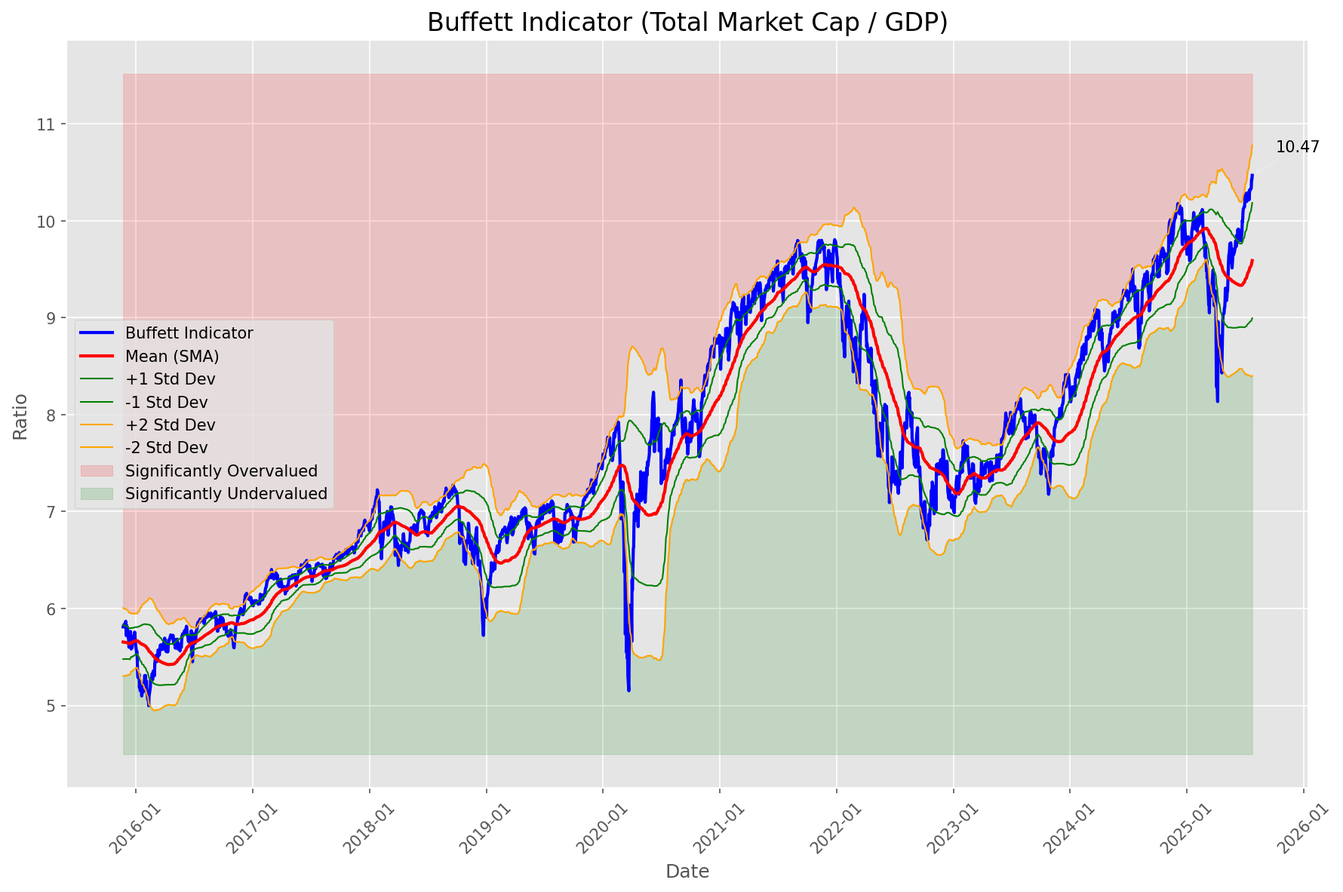
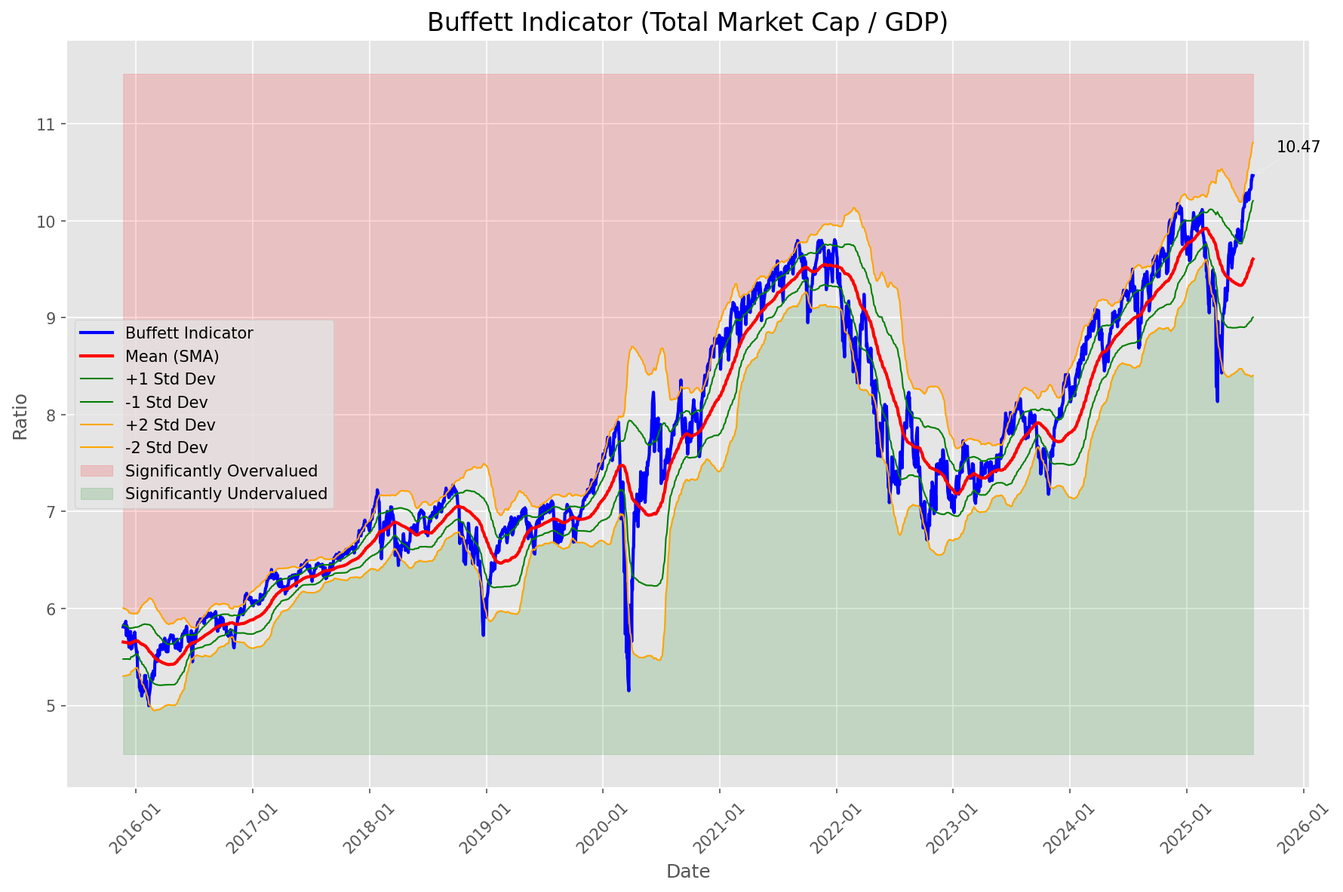
Add market report for 2025-07-29

diff --git a/oneil_relative_strength_report_2025-07-29.md b/oneil_relative_strength_report_2025-07-29.md
@@ -9,11 +9,11 @@
 | Metric | Value |
 |--------|-------|
 | **Market Valuation** | **Overvalued** |
-| **Current Ratio** | 10.47 |
-| **Historical Mean** | 9.59 |
-| **Standard Deviation** | 0.59 |
-| **Z-Score (StdDev from Mean)** | 1.48 |
-| **Total Market Cap** | $313.60 trillion |
+| **Current Ratio** | 10.48 |
+| **Historical Mean** | 9.61 |
+| **Standard Deviation** | 0.60 |
+| **Z-Score (StdDev from Mean)** | 1.43 |
+| **Total Market Cap** | $314.02 trillion |
 | **GDP** | $29.96 trillion |
 
 ## **Market Insights**
@@ -49,41 +49,41 @@ Based on William O'Neil's Relative Strength Methodology
 
 | ETF | Strength | RS Rating | Performance | Above Key MAs | Trend | Sector |
 |-----|----------|-----------|-------------|--------------|-------|--------|
-| [URA](https://www.tradingview.com/chart/?symbol=URA) | 99.0 | 98.0 | 67.65% | 10d ✓, 50d ✓, 200d ✓ | ↗ | Uranium |
+| [URA](https://www.tradingview.com/chart/?symbol=URA) | 98.5 | 97.0 | 64.05% | 10d ✓, 50d ✓, 200d ✓ | ↗ | Uranium |
 | [ARKW](https://www.tradingview.com/chart/?symbol=ARKW) | 98.0 | 96.0 | 53.30% | 10d ✓, 50d ✓, 200d ✓ | ↗ | Next Generation Internet |
-| [ARKF](https://www.tradingview.com/chart/?symbol=ARKF) | 97.5 | 95.0 | 49.71% | 10d ✓, 50d ✓, 200d ✓ | ↗ | Fintech Innovation |
-| [ARKK](https://www.tradingview.com/chart/?symbol=ARKK) | 97.5 | 95.0 | 50.67% | 10d ✓, 50d ✓, 200d ✓ | ↗ | Innovation |
-| [XLK](https://www.tradingview.com/chart/?symbol=XLK) | 91.0 | 82.0 | 26.68% | 10d ✓, 50d ✓, 200d ✓ | ↗ | Technology |
-| [PAVE](https://www.tradingview.com/chart/?symbol=PAVE) | 89.0 | 78.0 | 22.95% | 10d ✓, 50d ✓, 200d ✓ | ↗ | Infrastructure |
-| [AIQ](https://www.tradingview.com/chart/?symbol=AIQ) | 88.5 | 77.0 | 22.19% | 10d ✓, 50d ✓, 200d ✓ | ↗ | Artificial Intelligence & Technology |
+| [XLK](https://www.tradingview.com/chart/?symbol=XLK) | 91.5 | 83.0 | 27.95% | 10d ✓, 50d ✓, 200d ✓ | ↗ | Technology |
+| [PAVE](https://www.tradingview.com/chart/?symbol=PAVE) | 89.0 | 78.0 | 22.96% | 10d ✓, 50d ✓, 200d ✓ | ↗ | Infrastructure |
+| [AIQ](https://www.tradingview.com/chart/?symbol=AIQ) | 88.5 | 77.0 | 22.65% | 10d ✓, 50d ✓, 200d ✓ | ↗ | Artificial Intelligence & Technology |
 | [BLOK](https://www.tradingview.com/chart/?symbol=BLOK) | 88.1 | 96.0 | 56.58% | 10d ✗, 50d ✓, 200d ✓ | ↗ | Blockchain & Cryptocurrency |
-| [XLI](https://www.tradingview.com/chart/?symbol=XLI) | 86.5 | 73.0 | 19.77% | 10d ✓, 50d ✓, 200d ✓ | ↗ | Industrial |
-| [XLY](https://www.tradingview.com/chart/?symbol=XLY) | 81.5 | 63.0 | 14.46% | 10d ✓, 50d ✓, 200d ✓ | ↗ | Consumer Discretionary |
-| [JETS](https://www.tradingview.com/chart/?symbol=JETS) | 81.1 | 82.0 | 26.50% | 10d ✗, 50d ✓, 200d ✓ | ↗ | Airlines |
-| [CIBR](https://www.tradingview.com/chart/?symbol=CIBR) | 80.5 | 61.0 | 13.78% | 10d ✓, 50d ✓, 200d ✓ | ↗ | Cybersecurity |
-| [XLF](https://www.tradingview.com/chart/?symbol=XLF) | 77.0 | 54.0 | 10.52% | 10d ✓, 50d ✓, 200d ✓ | ↗ | Financial |
-| [SOXX](https://www.tradingview.com/chart/?symbol=SOXX) | 74.0 | 88.0 | 32.97% | 10d ✓, 50d ✓, 200d ✓ | ↘ | Semiconductors |
-| [SLV](https://www.tradingview.com/chart/?symbol=SLV) | 72.6 | 65.0 | 15.27% | 10d ✗, 50d ✓, 200d ✓ | ↗ | Silver |
-| [XLU](https://www.tradingview.com/chart/?symbol=XLU) | 72.0 | 44.0 | 6.92% | 10d ✓, 50d ✓, 200d ✓ | ↗ | Utilities |
-| [IYZ](https://www.tradingview.com/chart/?symbol=IYZ) | 71.1 | 62.0 | 14.08% | 10d ✗, 50d ✓, 200d ✓ | ↗ | Telecommunications |
-| [XLC](https://www.tradingview.com/chart/?symbol=XLC) | 70.1 | 60.0 | 13.44% | 10d ✗, 50d ✓, 200d ✓ | ↗ | Communications |
-| [KWEB](https://www.tradingview.com/chart/?symbol=KWEB) | 69.1 | 58.0 | 12.46% | 10d ✗, 50d ✓, 200d ✓ | ↗ | Chinese Internet |
-| [IYT](https://www.tradingview.com/chart/?symbol=IYT) | 66.0 | 72.0 | 18.93% | 10d ✓, 50d ✓, 200d ✓ | ↘ | Transportation |
-| [ICLN](https://www.tradingview.com/chart/?symbol=ICLN) | 64.0 | 68.0 | 16.46% | 10d ✓, 50d ✓, 200d ✓ | ↘ | Clean Energy |
-| [ARKG](https://www.tradingview.com/chart/?symbol=ARKG) | 62.0 | 64.0 | 14.64% | 10d ✓, 50d ✓, 200d ✓ | ↘ | Genomics |
-| [XLB](https://www.tradingview.com/chart/?symbol=XLB) | 56.0 | 52.0 | 10.18% | 10d ✓, 50d ✓, 200d ✓ | ↘ | Materials |
+| [ARKF](https://www.tradingview.com/chart/?symbol=ARKF) | 87.6 | 95.0 | 49.52% | 10d ✗, 50d ✓, 200d ✓ | ↗ | Fintech Innovation |
+| [ARKK](https://www.tradingview.com/chart/?symbol=ARKK) | 87.1 | 94.0 | 48.17% | 10d ✗, 50d ✓, 200d ✓ | ↗ | Innovation |
+| [XLI](https://www.tradingview.com/chart/?symbol=XLI) | 86.0 | 72.0 | 18.59% | 10d ✓, 50d ✓, 200d ✓ | ↗ | Industrial |
+| [CIBR](https://www.tradingview.com/chart/?symbol=CIBR) | 81.5 | 63.0 | 14.34% | 10d ✓, 50d ✓, 200d ✓ | ↗ | Cybersecurity |
+| [XLY](https://www.tradingview.com/chart/?symbol=XLY) | 81.0 | 62.0 | 13.75% | 10d ✓, 50d ✓, 200d ✓ | ↗ | Consumer Discretionary |
+| [JETS](https://www.tradingview.com/chart/?symbol=JETS) | 80.1 | 80.0 | 25.13% | 10d ✗, 50d ✓, 200d ✓ | ↗ | Airlines |
+| [XLF](https://www.tradingview.com/chart/?symbol=XLF) | 77.0 | 54.0 | 10.47% | 10d ✓, 50d ✓, 200d ✓ | ↗ | Financial |
+| [SOXX](https://www.tradingview.com/chart/?symbol=SOXX) | 74.5 | 89.0 | 34.93% | 10d ✓, 50d ✓, 200d ✓ | ↘ | Semiconductors |
+| [XLU](https://www.tradingview.com/chart/?symbol=XLU) | 72.5 | 45.0 | 7.02% | 10d ✓, 50d ✓, 200d ✓ | ↗ | Utilities |
+| [SLV](https://www.tradingview.com/chart/?symbol=SLV) | 72.1 | 64.0 | 14.59% | 10d ✗, 50d ✓, 200d ✓ | ↗ | Silver |
+| [IYZ](https://www.tradingview.com/chart/?symbol=IYZ) | 71.6 | 63.0 | 14.08% | 10d ✗, 50d ✓, 200d ✓ | ↗ | Telecommunications |
+| [XLC](https://www.tradingview.com/chart/?symbol=XLC) | 69.6 | 59.0 | 12.75% | 10d ✗, 50d ✓, 200d ✓ | ↗ | Communications |
+| [KWEB](https://www.tradingview.com/chart/?symbol=KWEB) | 69.6 | 59.0 | 12.80% | 10d ✗, 50d ✓, 200d ✓ | ↗ | Chinese Internet |
 | [IBB](https://www.tradingview.com/chart/?symbol=IBB) | 54.5 | 49.0 | 8.84% | 10d ✓, 50d ✓, 200d ✓ | ↘ | Biotechnology |
-| [XLE](https://www.tradingview.com/chart/?symbol=XLE) | 52.0 | 44.0 | 6.92% | 10d ✓, 50d ✓, 200d ✓ | ↘ | Energy |
+| [IYT](https://www.tradingview.com/chart/?symbol=IYT) | 54.1 | 68.0 | 16.36% | 10d ✗, 50d ✓, 200d ✓ | ↘ | Transportation |
+| [ICLN](https://www.tradingview.com/chart/?symbol=ICLN) | 52.6 | 65.0 | 15.07% | 10d ✗, 50d ✓, 200d ✓ | ↘ | Clean Energy |
+| [XLE](https://www.tradingview.com/chart/?symbol=XLE) | 52.0 | 44.0 | 6.53% | 10d ✓, 50d ✓, 200d ✓ | ↘ | Energy |
+| [ARKG](https://www.tradingview.com/chart/?symbol=ARKG) | 49.6 | 59.0 | 12.75% | 10d ✗, 50d ✓, 200d ✓ | ↘ | Genomics |
 | [DBC](https://www.tradingview.com/chart/?symbol=DBC) | 49.5 | 39.0 | 4.92% | 10d ✓, 50d ✓, 200d ✓ | ↘ | Commodities |
-| [ITB](https://www.tradingview.com/chart/?symbol=ITB) | 46.3 | 53.0 | 10.31% | 10d ✓, 50d ✓, 200d ✗ | ↘ | Home Construction |
-| [GLD](https://www.tradingview.com/chart/?symbol=GLD) | 42.7 | 25.0 | 0.22% | 10d ✗, 50d ✗, 200d ✓ | ↗ | Gold |
-| [BIL](https://www.tradingview.com/chart/?symbol=BIL) | 42.0 | 24.0 | 0.02% | 10d ✓, 50d ✓, 200d ✓ | ↘ | Short-term Treasuries |
-| [IYR](https://www.tradingview.com/chart/?symbol=IYR) | 38.6 | 37.0 | 4.26% | 10d ✗, 50d ✓, 200d ✓ | ↘ | Real Estate |
+| [IYR](https://www.tradingview.com/chart/?symbol=IYR) | 49.0 | 38.0 | 4.44% | 10d ✓, 50d ✓, 200d ✓ | ↘ | Real Estate |
+| [ITB](https://www.tradingview.com/chart/?symbol=ITB) | 46.3 | 53.0 | 10.06% | 10d ✓, 50d ✓, 200d ✗ | ↘ | Home Construction |
+| [XLB](https://www.tradingview.com/chart/?symbol=XLB) | 45.6 | 51.0 | 9.56% | 10d ✗, 50d ✓, 200d ✓ | ↘ | Materials |
+| [BIL](https://www.tradingview.com/chart/?symbol=BIL) | 42.5 | 25.0 | 0.02% | 10d ✓, 50d ✓, 200d ✓ | ↘ | Short-term Treasuries |
+| [GLD](https://www.tradingview.com/chart/?symbol=GLD) | 40.2 | 20.0 | -1.12% | 10d ✗, 50d ✗, 200d ✓ | ↗ | Gold |
 | [DBA](https://www.tradingview.com/chart/?symbol=DBA) | 38.4 | 17.0 | -2.74% | 10d ✓, 50d ✗, 200d ✗ | ↗ | Agriculture |
-| [UUP](https://www.tradingview.com/chart/?symbol=UUP) | 32.8 | 26.0 | 0.40% | 10d ✓, 50d ✓, 200d ✗ | ↘ | U.S. Dollar |
-| [XLV](https://www.tradingview.com/chart/?symbol=XLV) | 28.8 | 18.0 | -2.00% | 10d ✓, 50d ✓, 200d ✗ | ↘ | Healthcare |
-| [TLT](https://www.tradingview.com/chart/?symbol=TLT) | 17.9 | 16.0 | -3.40% | 10d ✓, 50d ✗, 200d ✗ | ↘ | Long-term Treasuries |
-| [XLP](https://www.tradingview.com/chart/?symbol=XLP) | 11.5 | 23.0 | -0.22% | 10d ✗, 50d ✗, 200d ✗ | ↘ | Consumer Staples |
+| [UUP](https://www.tradingview.com/chart/?symbol=UUP) | 35.3 | 31.0 | 1.45% | 10d ✓, 50d ✓, 200d ✗ | ↘ | U.S. Dollar |
+| [XLV](https://www.tradingview.com/chart/?symbol=XLV) | 28.3 | 17.0 | -2.80% | 10d ✓, 50d ✓, 200d ✗ | ↘ | Healthcare |
+| [TLT](https://www.tradingview.com/chart/?symbol=TLT) | 27.8 | 16.0 | -3.16% | 10d ✓, 50d ✓, 200d ✗ | ↘ | Long-term Treasuries |
+| [XLP](https://www.tradingview.com/chart/?symbol=XLP) | 23.2 | 26.0 | 0.32% | 10d ✗, 50d ✗, 200d ✓ | ↘ | Consumer Staples |
 
 ### **Sector ETF Performance Interpretation**
 
@@ -98,159 +98,178 @@ This table shows the relative strength metrics for different market sectors base
 
 ### **Current Sector Leadership**
 
-The current market leadership is coming from the following sectors: **Uranium, Next Generation Internet, Fintech Innovation**.
+The current market leadership is coming from the following sectors: **Uranium, Next Generation Internet, Technology**.
 
-The **Uranium** sector (represented by **URA**) is showing particularly strong relative strength with an RS rating of 98.0 and performance of 67.65% vs. the S&P 500. This sector is trading above its 10-day, 50-day, 200-day moving average(s). Investors should consider focusing on high RS stocks within these leading sectors for potential outperformance.
+The **Uranium** sector (represented by **URA**) is showing particularly strong relative strength with an RS rating of 97.0 and performance of 64.05% vs. the S&P 500. This sector is trading above its 10-day, 50-day, 200-day moving average(s). Investors should consider focusing on high RS stocks within these leading sectors for potential outperformance.
 
 ---
 
 ## **Buy Recommendations**
 
-The following 50 stocks show exceptional relative strength:
+The following 48 stocks show exceptional relative strength:
 
 | RS Rating | Buy Score | Current Price | Chart | Name | Ticker |
 |-----------|-----------|---------------|-------|------|--------|
-| 100 | 100 | $64.11 | [Chart](https://www.tradingview.com/chart/?symbol=MP) | MP Materials Corp. | MP |
-| 100 | 100 | $239.40 | [Chart](https://www.tradingview.com/chart/?symbol=LEU) | Centrus Energy Corp. | LEU |
-| 100 | 100 | $106.77 | [Chart](https://www.tradingview.com/chart/?symbol=HOOD) | Robinhood Markets, Inc. Class A Common Stock | HOOD |
-| 100 | 100 | $146.49 | [Chart](https://www.tradingview.com/chart/?symbol=SEZL) | Sezzle Inc. Common Stock | SEZL |
-| 100 | 100 | $45.95 | [Chart](https://www.tradingview.com/chart/?symbol=TTMI) | TTM Technologies Inc | TTMI |
-| 99 | 100 | $58.68 | [Chart](https://www.tradingview.com/chart/?symbol=HIMS) | Hims & Hers Health, Inc. | HIMS |
-| 99 | 100 | $120.96 | [Chart](https://www.tradingview.com/chart/?symbol=RBLX) | Roblox Corporation | RBLX |
-| 99 | 100 | $173.37 | [Chart](https://www.tradingview.com/chart/?symbol=CLS) | Celestica, Inc. | CLS |
-| 99 | 100 | $76.17 | [Chart](https://www.tradingview.com/chart/?symbol=LIF) | Life360, Inc. Common Stock | LIF |
-| 99 | 100 | $162.67 | [Chart](https://www.tradingview.com/chart/?symbol=FUTU) | Futu Holdings Limited American Depositary Shares | FUTU |
+| 100 | 100 | $105.97 | [Chart](https://www.tradingview.com/chart/?symbol=HOOD) | Robinhood Markets, Inc. Class A Common Stock | HOOD |
+| 100 | 100 | $234.36 | [Chart](https://www.tradingview.com/chart/?symbol=LEU) | Centrus Energy Corp. | LEU |
+| 100 | 100 | $205.12 | [Chart](https://www.tradingview.com/chart/?symbol=CLS) | Celestica, Inc. | CLS |
+| 100 | 100 | $49.63 | [Chart](https://www.tradingview.com/chart/?symbol=TTMI) | TTM Technologies Inc | TTMI |
+| 100 | 100 | $62.19 | [Chart](https://www.tradingview.com/chart/?symbol=MP) | MP Materials Corp. | MP |
+| 100 | 100 | $145.14 | [Chart](https://www.tradingview.com/chart/?symbol=SEZL) | Sezzle Inc. Common Stock | SEZL |
+| 100 | 100 | $226.99 | [Chart](https://www.tradingview.com/chart/?symbol=DAVE) | Dave Inc. Class A Common Stock | DAVE |
 | 99 | 100 | $25.46 | [Chart](https://www.tradingview.com/chart/?symbol=CPS) | Cooper-Standard Automotive Inc. | CPS |
-| 98 | 100 | $358.77 | [Chart](https://www.tradingview.com/chart/?symbol=TLN) | Talen Energy Corporation Common Stock | TLN |
-| 98 | 100 | $647.66 | [Chart](https://www.tradingview.com/chart/?symbol=GEV) | GE Vernova Inc. | GEV |
-| 98 | 100 | $59.36 | [Chart](https://www.tradingview.com/chart/?symbol=KTOS) | Kratos Defense & Security Solutions, Inc. | KTOS |
-| 97 | 100 | $199.41 | [Chart](https://www.tradingview.com/chart/?symbol=NET) | Cloudflare, Inc. Class A common stock, par value $0.001 per share | NET |
-| 97 | 100 | $105.09 | [Chart](https://www.tradingview.com/chart/?symbol=VRNA) | Verona Pharma plc | VRNA |
-| 97 | 100 | $38.60 | [Chart](https://www.tradingview.com/chart/?symbol=AS) | Amer Sports, Inc. | AS |
-| 97 | 100 | $37.88 | [Chart](https://www.tradingview.com/chart/?symbol=NNE) | Nano Nuclear Energy Inc. Common Stock | NNE |
-| 96 | 100 | $236.89 | [Chart](https://www.tradingview.com/chart/?symbol=AGX) | Argan, Inc | AGX |
-| 96 | 100 | $65.39 | [Chart](https://www.tradingview.com/chart/?symbol=IBKR) | Interactive Brokers Group, Inc. Class A Common Stock | IBKR |
+| 99 | 100 | $76.17 | [Chart](https://www.tradingview.com/chart/?symbol=LIF) | Life360, Inc. Common Stock | LIF |
+| 99 | 100 | $57.48 | [Chart](https://www.tradingview.com/chart/?symbol=HIMS) | Hims & Hers Health, Inc. | HIMS |
+| 98 | 100 | $58.60 | [Chart](https://www.tradingview.com/chart/?symbol=KTOS) | Kratos Defense & Security Solutions, Inc. | KTOS |
+| 98 | 100 | $643.35 | [Chart](https://www.tradingview.com/chart/?symbol=GEV) | GE Vernova Inc. | GEV |
+| 98 | 100 | $360.02 | [Chart](https://www.tradingview.com/chart/?symbol=TLN) | Talen Energy Corporation Common Stock | TLN |
+| 97 | 100 | $243.00 | [Chart](https://www.tradingview.com/chart/?symbol=AGX) | Argan, Inc | AGX |
+| 97 | 100 | $202.10 | [Chart](https://www.tradingview.com/chart/?symbol=NET) | Cloudflare, Inc. Class A common stock, par value $0.001 per share | NET |
+| 96 | 100 | $231.95 | [Chart](https://www.tradingview.com/chart/?symbol=JBL) | Jabil Inc. | JBL |
 | 96 | 100 | $158.24 | [Chart](https://www.tradingview.com/chart/?symbol=ARKW) | ARK Next Generation Internet ETF | ARKW |
-| 95 | 100 | $224.79 | [Chart](https://www.tradingview.com/chart/?symbol=JBL) | Jabil Inc. | JBL |
-| 95 | 100 | $77.72 | [Chart](https://www.tradingview.com/chart/?symbol=URBN) | Urban Outfitters Inc | URBN |
-| 95 | 100 | $54.03 | [Chart](https://www.tradingview.com/chart/?symbol=ARKF) | ARK Fintech Innovation ETF | ARKF |
-| 93 | 100 | $22.30 | [Chart](https://www.tradingview.com/chart/?symbol=MIR) | Mirion Technologies, Inc. | MIR |
-| 93 | 100 | $58.78 | [Chart](https://www.tradingview.com/chart/?symbol=VIK) | Viking Holdings Ltd | VIK |
-| 92 | 100 | $258.50 | [Chart](https://www.tradingview.com/chart/?symbol=WWD) | Woodward, Inc. | WWD |
-| 92 | 100 | $19.82 | [Chart](https://www.tradingview.com/chart/?symbol=LQDA) | Liquidia Corporation Common Stock | LQDA |
-| 92 | 100 | $106.70 | [Chart](https://www.tradingview.com/chart/?symbol=APH) | Amphenol Corporation | APH |
-| 91 | 100 | $157.88 | [Chart](https://www.tradingview.com/chart/?symbol=PLTR) | Palantir Technologies Inc. Class A Common Stock | PLTR |
-| 91 | 100 | $95.55 | [Chart](https://www.tradingview.com/chart/?symbol=C) | Citigroup Inc. | C |
-| 91 | 100 | $188.17 | [Chart](https://www.tradingview.com/chart/?symbol=HWM) | Howmet Aerospace Inc. | HWM |
-| 90 | 100 | $270.61 | [Chart](https://www.tradingview.com/chart/?symbol=GE) | GE Aerospace | GE |
-| 90 | 100 | $111.52 | [Chart](https://www.tradingview.com/chart/?symbol=JCI) | Johnson Controls International plc | JCI |
-| 89 | 100 | $158.32 | [Chart](https://www.tradingview.com/chart/?symbol=COOP) | Mr. Cooper Group Inc. Common Stock | COOP |
-| 89 | 100 | $62.70 | [Chart](https://www.tradingview.com/chart/?symbol=RYAAY) | Ryanair Holdings plc American Depositary Shares | RYAAY |
-| 89 | 100 | $48.93 | [Chart](https://www.tradingview.com/chart/?symbol=TOST) | Toast, Inc. | TOST |
-| 86 | 98 | $65.89 | [Chart](https://www.tradingview.com/chart/?symbol=CAKE) | Cheesecake Factory (The) | CAKE |
-| 87 | 97 | $236.41 | [Chart](https://www.tradingview.com/chart/?symbol=BA) | Boeing Company | BA |
-| 84 | 96 | $48.08 | [Chart](https://www.tradingview.com/chart/?symbol=DRS) | Leonardo DRS, Inc. Common Stock | DRS |
-| 85 | 95 | $49.45 | [Chart](https://www.tradingview.com/chart/?symbol=INOD) | Innodata Inc. | INOD |
-| 84 | 95 | $292.59 | [Chart](https://www.tradingview.com/chart/?symbol=VEEV) | Veeva Systems Inc. | VEEV |
-| 83 | 95 | $100.63 | [Chart](https://www.tradingview.com/chart/?symbol=BK) | Bank of New York Mellon Corporation | BK |
-| 82 | 95 | $32.56 | [Chart](https://www.tradingview.com/chart/?symbol=DB) | Deutsche Bank Aktiengesellschaft | DB |
-| 83 | 94 | $198.05 | [Chart](https://www.tradingview.com/chart/?symbol=ITA) | iShares U.S. Aerospace & Defense ETF | ITA |
-| 82 | 93 | $147.19 | [Chart](https://www.tradingview.com/chart/?symbol=PPA) | Invesco Aerospace & Defense ETF | PPA |
-| 81 | 91 | $95.14 | [Chart](https://www.tradingview.com/chart/?symbol=NDAQ) | Nasdaq, Inc. Common Stock | NDAQ |
-| 80 | 91 | $156.07 | [Chart](https://www.tradingview.com/chart/?symbol=RTX) | RTX Corporation | RTX |
+| 96 | 100 | $65.88 | [Chart](https://www.tradingview.com/chart/?symbol=IBKR) | Interactive Brokers Group, Inc. Class A Common Stock | IBKR |
+| 96 | 100 | $37.73 | [Chart](https://www.tradingview.com/chart/?symbol=NNE) | Nano Nuclear Energy Inc. Common Stock | NNE |
+| 95 | 100 | $105.27 | [Chart](https://www.tradingview.com/chart/?symbol=VRNA) | Verona Pharma plc | VRNA |
+| 94 | 100 | $77.48 | [Chart](https://www.tradingview.com/chart/?symbol=URBN) | Urban Outfitters Inc | URBN |
+| 93 | 100 | $260.58 | [Chart](https://www.tradingview.com/chart/?symbol=WWD) | Woodward, Inc. | WWD |
+| 93 | 100 | $22.47 | [Chart](https://www.tradingview.com/chart/?symbol=MIR) | Mirion Technologies, Inc. | MIR |
+| 92 | 100 | $114.14 | [Chart](https://www.tradingview.com/chart/?symbol=SANM) | Sanmina  Corp | SANM |
+| 92 | 100 | $163.82 | [Chart](https://www.tradingview.com/chart/?symbol=COOP) | Mr. Cooper Group Inc. Common Stock | COOP |
+| 91 | 100 | $34.76 | [Chart](https://www.tradingview.com/chart/?symbol=APG) | APi Group Corporation | APG |
+| 91 | 100 | $189.84 | [Chart](https://www.tradingview.com/chart/?symbol=HWM) | Howmet Aerospace Inc. | HWM |
+| 91 | 100 | $95.81 | [Chart](https://www.tradingview.com/chart/?symbol=C) | Citigroup Inc. | C |
+| 91 | 100 | $106.15 | [Chart](https://www.tradingview.com/chart/?symbol=APH) | Amphenol Corporation | APH |
+| 91 | 100 | $19.83 | [Chart](https://www.tradingview.com/chart/?symbol=LQDA) | Liquidia Corporation Common Stock | LQDA |
+| 91 | 100 | $57.96 | [Chart](https://www.tradingview.com/chart/?symbol=VIK) | Viking Holdings Ltd | VIK |
+| 90 | 100 | $157.78 | [Chart](https://www.tradingview.com/chart/?symbol=PLTR) | Palantir Technologies Inc. Class A Common Stock | PLTR |
+| 89 | 100 | $48.68 | [Chart](https://www.tradingview.com/chart/?symbol=TOST) | Toast, Inc. | TOST |
+| 89 | 100 | $271.89 | [Chart](https://www.tradingview.com/chart/?symbol=GE) | GE Aerospace | GE |
+| 86 | 99 | $91.05 | [Chart](https://www.tradingview.com/chart/?symbol=RBRK) | Rubrik, Inc. | RBRK |
+| 86 | 98 | $48.27 | [Chart](https://www.tradingview.com/chart/?symbol=DRS) | Leonardo DRS, Inc. Common Stock | DRS |
+| 84 | 97 | $33.09 | [Chart](https://www.tradingview.com/chart/?symbol=DB) | Deutsche Bank Aktiengesellschaft | DB |
+| 85 | 96 | $46.62 | [Chart](https://www.tradingview.com/chart/?symbol=BBIO) | BridgeBio Pharma, Inc. Common Stock | BBIO |
+| 84 | 96 | $101.94 | [Chart](https://www.tradingview.com/chart/?symbol=BK) | Bank of New York Mellon Corporation | BK |
+| 84 | 95 | $291.31 | [Chart](https://www.tradingview.com/chart/?symbol=VEEV) | Veeva Systems Inc. | VEEV |
+| 83 | 94 | $147.19 | [Chart](https://www.tradingview.com/chart/?symbol=PPA) | Invesco Aerospace & Defense ETF | PPA |
+| 82 | 94 | $64.76 | [Chart](https://www.tradingview.com/chart/?symbol=CAKE) | Cheesecake Factory (The) | CAKE |
+| 83 | 93 | $48.84 | [Chart](https://www.tradingview.com/chart/?symbol=INOD) | Innodata Inc. | INOD |
+| 83 | 93 | $177.26 | [Chart](https://www.tradingview.com/chart/?symbol=AWI) | Armstrong World Industries, Inc. | AWI |
+| 82 | 93 | $197.84 | [Chart](https://www.tradingview.com/chart/?symbol=ITA) | iShares U.S. Aerospace & Defense ETF | ITA |
+| 82 | 92 | $95.53 | [Chart](https://www.tradingview.com/chart/?symbol=NDAQ) | Nasdaq, Inc. Common Stock | NDAQ |
+| 80 | 91 | $40.63 | [Chart](https://www.tradingview.com/chart/?symbol=ZLAB) | Zai Lab Limited American Depositary Shares | ZLAB |
 | 80 | 90 | $65.61 | [Chart](https://www.tradingview.com/chart/?symbol=CNM) | Core & Main, Inc. | CNM |
-| 80 | 90 | $49.51 | [Chart](https://www.tradingview.com/chart/?symbol=AU) | AngloGold Ashanti plc | AU |
 
 ---
 
 
 ## **Sell Recommendations**
 
-The following 81 stocks show deteriorating relative strength:
+The following 102 stocks show deteriorating relative strength:
 
 | RS Rating | Sell Score | Current Price | Chart | Name | Ticker |
 |-----------|------------|---------------|-------|------|--------|
-| 1 | 100 | $12.17 | [Chart](https://www.tradingview.com/chart/?symbol=NVDS) | Investment Managers Series Trust II Tradr 1.5X Short NVDA Daily ETF | NVDS |
-| 1 | 100 | $23.75 | [Chart](https://www.tradingview.com/chart/?symbol=TECS) | Direxion Daily Technology Bear 3x Shares | TECS |
+| 1 | 100 | $23.14 | [Chart](https://www.tradingview.com/chart/?symbol=TECS) | Direxion Daily Technology Bear 3x Shares | TECS |
+| 1 | 100 | $23.89 | [Chart](https://www.tradingview.com/chart/?symbol=QID) | ProShares UltraShort QQQ | QID |
+| 1 | 100 | $11.98 | [Chart](https://www.tradingview.com/chart/?symbol=NVDS) | Investment Managers Series Trust II Tradr 1.5X Short NVDA Daily ETF | NVDS |
+| 1 | 100 | $22.96 | [Chart](https://www.tradingview.com/chart/?symbol=CRTO) | Criteo S.A. | CRTO |
 | 2 | 100 | $14.37 | [Chart](https://www.tradingview.com/chart/?symbol=CLBT) | Cellebrite DI Ltd. Class A Ordinary Shares | CLBT |
-| 2 | 100 | $54.30 | [Chart](https://www.tradingview.com/chart/?symbol=GMED) | GLOBUS MEDICAL INC | GMED |
-| 2 | 100 | $39.65 | [Chart](https://www.tradingview.com/chart/?symbol=SDOW) | ProShares UltraPro Short Dow 30 | SDOW |
+| 2 | 100 | $39.69 | [Chart](https://www.tradingview.com/chart/?symbol=SDOW) | ProShares UltraPro Short Dow 30 | SDOW |
+| 2 | 100 | $13.60 | [Chart](https://www.tradingview.com/chart/?symbol=SG) | Sweetgreen, Inc. | SG |
 | 2 | 100 | $72.41 | [Chart](https://www.tradingview.com/chart/?symbol=LNTH) | Lantheus Holdings, Inc | LNTH |
+| 2 | 100 | $54.30 | [Chart](https://www.tradingview.com/chart/?symbol=GMED) | GLOBUS MEDICAL INC | GMED |
 | 2 | 100 | $65.03 | [Chart](https://www.tradingview.com/chart/?symbol=SKY) | Champion Homes, Inc. | SKY |
 | 3 | 100 | $18.27 | [Chart](https://www.tradingview.com/chart/?symbol=GPCR) | Structure Therapeutics Inc. American Depositary Shares | GPCR |
-| 4 | 100 | $16.41 | [Chart](https://www.tradingview.com/chart/?symbol=BTAL) | AGF U.S. Market Neutral Anti-Beta Fund | BTAL |
-| 4 | 100 | $15.21 | [Chart](https://www.tradingview.com/chart/?symbol=PLSE) | Pulse Biosciences, Inc Common Stock (DE) | PLSE |
+| 4 | 100 | $23.78 | [Chart](https://www.tradingview.com/chart/?symbol=DUST) | Direxion Daily Gold Miners Index Bear 2X Shares | DUST |
+| 4 | 100 | $16.34 | [Chart](https://www.tradingview.com/chart/?symbol=BTAL) | AGF U.S. Market Neutral Anti-Beta Fund | BTAL |
 | 4 | 100 | $48.50 | [Chart](https://www.tradingview.com/chart/?symbol=SLVM) | Sylvamo Corporation | SLVM |
+| 4 | 100 | $15.21 | [Chart](https://www.tradingview.com/chart/?symbol=PLSE) | Pulse Biosciences, Inc Common Stock (DE) | PLSE |
+| 6 | 100 | $10.04 | [Chart](https://www.tradingview.com/chart/?symbol=SPDN) | Direxion Daily S&P 500 Bear 1X Shares | SPDN |
+| 6 | 100 | $38.66 | [Chart](https://www.tradingview.com/chart/?symbol=SH) | ProShares Short S&P500 | SH |
 | 6 | 100 | $10.18 | [Chart](https://www.tradingview.com/chart/?symbol=IMXI) | International Money Express, Inc. | IMXI |
-| 6 | 100 | $38.71 | [Chart](https://www.tradingview.com/chart/?symbol=SH) | ProShares Short S&P500 | SH |
-| 6 | 100 | $53.45 | [Chart](https://www.tradingview.com/chart/?symbol=TSN) | Tyson Foods, Inc. | TSN |
-| 7 | 100 | $36.19 | [Chart](https://www.tradingview.com/chart/?symbol=TMF) | Direxion Daily 20+ Year Treasury Bull 3X Shares (based on the NYSE 20 Year Plus Treasury Bond Index; symbol AXTWEN) | TMF |
-| 10 | 100 | $14.23 | [Chart](https://www.tradingview.com/chart/?symbol=DXC) | DXC Technology Company | DXC |
+| 7 | 100 | $53.74 | [Chart](https://www.tradingview.com/chart/?symbol=TSN) | Tyson Foods, Inc. | TSN |
 | 10 | 100 | $69.95 | [Chart](https://www.tradingview.com/chart/?symbol=NHI) | National Health Investors | NHI |
-| 11 | 100 | $15.19 | [Chart](https://www.tradingview.com/chart/?symbol=FIHL) | Fidelis Insurance Holdings Limited | FIHL |
-| 11 | 100 | $63.48 | [Chart](https://www.tradingview.com/chart/?symbol=ZROZ) | PIMCO 25+ Year Zero Coupon U.S. Treasury Index Exchange-Traded Fund | ZROZ |
-| 12 | 100 | $16.46 | [Chart](https://www.tradingview.com/chart/?symbol=UMH) | UMH Properties, Inc. | UMH |
+| 10 | 100 | $14.23 | [Chart](https://www.tradingview.com/chart/?symbol=DXC) | DXC Technology Company | DXC |
+| 12 | 100 | $13.96 | [Chart](https://www.tradingview.com/chart/?symbol=OCSL) | Oaktree Specialty Lending Corporation | OCSL |
 | 12 | 100 | $127.50 | [Chart](https://www.tradingview.com/chart/?symbol=ICUI) | ICU Medical Inc | ICUI |
+| 12 | 100 | $15.19 | [Chart](https://www.tradingview.com/chart/?symbol=FIHL) | Fidelis Insurance Holdings Limited | FIHL |
+| 12 | 100 | $63.48 | [Chart](https://www.tradingview.com/chart/?symbol=ZROZ) | PIMCO 25+ Year Zero Coupon U.S. Treasury Index Exchange-Traded Fund | ZROZ |
+| 12 | 100 | $16.46 | [Chart](https://www.tradingview.com/chart/?symbol=UMH) | UMH Properties, Inc. | UMH |
+| 1 | 99 | $10.49 | [Chart](https://www.tradingview.com/chart/?symbol=TZA) | Direxion Daily Small Cap Bear 3x Shares | TZA |
 | 5 | 99 | $21.15 | [Chart](https://www.tradingview.com/chart/?symbol=ERY) | Direxion Daily Energy Bear 2X Shares | ERY |
 | 13 | 99 | $64.06 | [Chart](https://www.tradingview.com/chart/?symbol=EDV) | Vanguard World Funds Extended Duration ETF | EDV |
+| 3 | 98 | $10.86 | [Chart](https://www.tradingview.com/chart/?symbol=CERT) | Certara, Inc. Common Stock | CERT |
+| 6 | 98 | $44.73 | [Chart](https://www.tradingview.com/chart/?symbol=CMG) | Chipotle Mexican Grill, Inc. | CMG |
+| 10 | 98 | $103.16 | [Chart](https://www.tradingview.com/chart/?symbol=DEO) | Diageo plc | DEO |
 | 12 | 98 | $10.42 | [Chart](https://www.tradingview.com/chart/?symbol=ACIC) | American Coastal Insurance Corporation Common Stock | ACIC |
-| 6 | 97 | $44.86 | [Chart](https://www.tradingview.com/chart/?symbol=CMG) | Chipotle Mexican Grill, Inc. | CMG |
 | 11 | 97 | $29.00 | [Chart](https://www.tradingview.com/chart/?symbol=OMCL) | Omnicell Inc | OMCL |
 | 15 | 97 | $50.95 | [Chart](https://www.tradingview.com/chart/?symbol=ASH) | Ashland Inc. | ASH |
 | 9 | 96 | $72.18 | [Chart](https://www.tradingview.com/chart/?symbol=AWR) | American States Water Company | AWR |
-| 11 | 96 | $331.35 | [Chart](https://www.tradingview.com/chart/?symbol=EG) | Everest Group, Ltd. | EG |
+| 12 | 96 | $28.75 | [Chart](https://www.tradingview.com/chart/?symbol=BAX) | Baxter International Inc. | BAX |
+| 12 | 96 | $39.72 | [Chart](https://www.tradingview.com/chart/?symbol=BWIN) | The Baldwin Insurance Group, Inc. Class A Common Stock | BWIN |
+| 13 | 96 | $76.07 | [Chart](https://www.tradingview.com/chart/?symbol=BG) | Bunge Global SA | BG |
+| 11 | 95 | $59.20 | [Chart](https://www.tradingview.com/chart/?symbol=UL) | Unilever plc | UL |
+| 12 | 95 | $331.35 | [Chart](https://www.tradingview.com/chart/?symbol=EG) | Everest Group, Ltd. | EG |
 | 11 | 94 | $55.59 | [Chart](https://www.tradingview.com/chart/?symbol=HRB) | H&R Block, Inc. | HRB |
 | 13 | 94 | $15.78 | [Chart](https://www.tradingview.com/chart/?symbol=BBN) | BlackRock Taxable Municipal Bond Trust | BBN |
+| 14 | 94 | $35.44 | [Chart](https://www.tradingview.com/chart/?symbol=AMH) | AMERICAN HOMES 4 RENT | AMH |
 | 14 | 94 | $75.26 | [Chart](https://www.tradingview.com/chart/?symbol=CBT) | Cabot Corporation | CBT |
+| 16 | 94 | $14.28 | [Chart](https://www.tradingview.com/chart/?symbol=ACVA) | ACV Auctions Inc. | ACVA |
 | 17 | 94 | $21.51 | [Chart](https://www.tradingview.com/chart/?symbol=TUA) | Simplify Short Term Treasury Futures Strategy ETF | TUA |
-| 20 | 94 | $10.81 | [Chart](https://www.tradingview.com/chart/?symbol=MQY) | Blackrock Muni Yield Quality Fund, Inc | MQY |
 | 12 | 93 | $12.37 | [Chart](https://www.tradingview.com/chart/?symbol=WSR) | Whitestone REIT | WSR |
-| 13 | 93 | $76.70 | [Chart](https://www.tradingview.com/chart/?symbol=BG) | Bunge Global SA | BG |
+| 15 | 93 | $87.11 | [Chart](https://www.tradingview.com/chart/?symbol=CL) | Colgate-Palmolive Company | CL |
 | 19 | 93 | $11.58 | [Chart](https://www.tradingview.com/chart/?symbol=NVG) | Nuveen AMT-Free Municipal Credit Income Fund | NVG |
-| 14 | 92 | $207.67 | [Chart](https://www.tradingview.com/chart/?symbol=MKTX) | MarketAxess Holdings Inc. | MKTX |
+| 21 | 93 | $10.81 | [Chart](https://www.tradingview.com/chart/?symbol=MQY) | Blackrock Muni Yield Quality Fund, Inc | MQY |
+| 9 | 92 | $36.97 | [Chart](https://www.tradingview.com/chart/?symbol=WTRG) | Essential Utilities, Inc. | WTRG |
 | 14 | 92 | $36.81 | [Chart](https://www.tradingview.com/chart/?symbol=PBA) | PEMBINA PIPELINE CORPORATION | PBA |
-| 16 | 92 | $85.87 | [Chart](https://www.tradingview.com/chart/?symbol=TLT) | iShares 20+ Year Treasury Bond ETF | TLT |
+| 14 | 92 | $207.67 | [Chart](https://www.tradingview.com/chart/?symbol=MKTX) | MarketAxess Holdings Inc. | MKTX |
 | 17 | 92 | $31.14 | [Chart](https://www.tradingview.com/chart/?symbol=SCHQ) | Schwab Long-Term U.S. Treasury ETF | SCHQ |
 | 19 | 92 | $11.64 | [Chart](https://www.tradingview.com/chart/?symbol=NZF) | Nuveen Municipal Credit Income Fund | NZF |
-| 14 | 91 | $39.83 | [Chart](https://www.tradingview.com/chart/?symbol=BWIN) | The Baldwin Insurance Group, Inc. Class A Common Stock | BWIN |
 | 16 | 91 | $198.77 | [Chart](https://www.tradingview.com/chart/?symbol=AVB) | AvalonBay Communities, Inc. | AVB |
+| 16 | 91 | $40.10 | [Chart](https://www.tradingview.com/chart/?symbol=UDR) | UDR, Inc. | UDR |
+| 17 | 91 | $47.10 | [Chart](https://www.tradingview.com/chart/?symbol=BMY) | Bristol-Myers Squibb Co. | BMY |
 | 19 | 91 | $10.25 | [Chart](https://www.tradingview.com/chart/?symbol=MYI) | BLACKROCK MUNIYIELD QUALITY FUND III, INC. | MYI |
+| 11 | 90 | $101.59 | [Chart](https://www.tradingview.com/chart/?symbol=AFL) | Aflac Inc. | AFL |
 | 16 | 90 | $10.59 | [Chart](https://www.tradingview.com/chart/?symbol=SD) | SandRidge Energy, Inc. | SD |
-| 17 | 90 | $25.95 | [Chart](https://www.tradingview.com/chart/?symbol=SPTL) | SPDR Portfolio Long Term Treasury ETF | SPTL |
-| 20 | 90 | $10.07 | [Chart](https://www.tradingview.com/chart/?symbol=NMZ) | Nuveen Municipal High Income Opportunity Fund | NMZ |
+| 17 | 90 | $127.64 | [Chart](https://www.tradingview.com/chart/?symbol=KMB) | Kimberly-Clark Corp. | KMB |
 | 11 | 89 | $149.35 | [Chart](https://www.tradingview.com/chart/?symbol=MAA) | Mid-America Apartment Communities, Inc. | MAA |
-| 13 | 89 | $59.21 | [Chart](https://www.tradingview.com/chart/?symbol=UL) | Unilever plc | UL |
-| 15 | 89 | $35.28 | [Chart](https://www.tradingview.com/chart/?symbol=AMH) | AMERICAN HOMES 4 RENT | AMH |
-| 17 | 89 | $54.79 | [Chart](https://www.tradingview.com/chart/?symbol=VGLT) | Vanguard Long-Term Treasury ETF | VGLT |
-| 18 | 89 | $14.45 | [Chart](https://www.tradingview.com/chart/?symbol=ACVA) | ACV Auctions Inc. | ACVA |
+| 16 | 89 | $156.88 | [Chart](https://www.tradingview.com/chart/?symbol=PG) | Procter & Gamble Company | PG |
+| 21 | 89 | $10.07 | [Chart](https://www.tradingview.com/chart/?symbol=NMZ) | Nuveen Municipal High Income Opportunity Fund | NMZ |
 | 21 | 89 | $11.11 | [Chart](https://www.tradingview.com/chart/?symbol=NAD) | Nuveen Quality Municipal Income Fund | NAD |
-| 16 | 88 | $39.90 | [Chart](https://www.tradingview.com/chart/?symbol=UDR) | UDR, Inc. | UDR |
 | 19 | 88 | $55.74 | [Chart](https://www.tradingview.com/chart/?symbol=TRNO) | Terreno Realty Corporation | TRNO |
-| 20 | 88 | $10.69 | [Chart](https://www.tradingview.com/chart/?symbol=NEA) | Nuveen AMT-Free Quality Municipal Income Fund | NEA |
-| 16 | 87 | $126.86 | [Chart](https://www.tradingview.com/chart/?symbol=KMB) | Kimberly-Clark Corp. | KMB |
+| 21 | 88 | $15.87 | [Chart](https://www.tradingview.com/chart/?symbol=BNL) | Broadstone Net Lease, Inc. | BNL |
+| 21 | 87 | $10.69 | [Chart](https://www.tradingview.com/chart/?symbol=NEA) | Nuveen AMT-Free Quality Municipal Income Fund | NEA |
+| 15 | 86 | $29.86 | [Chart](https://www.tradingview.com/chart/?symbol=APPN) | Appian Corporation Class A Common Stock | APPN |
+| 17 | 86 | $28.64 | [Chart](https://www.tradingview.com/chart/?symbol=HRL) | Hormel Foods Corporation | HRL |
 | 21 | 86 | $20.93 | [Chart](https://www.tradingview.com/chart/?symbol=AVBP) | ArriVent BioPharma, Inc. Common Stock | AVBP |
-| 21 | 85 | $47.51 | [Chart](https://www.tradingview.com/chart/?symbol=BMY) | Bristol-Myers Squibb Co. | BMY |
+| 18 | 84 | $70.14 | [Chart](https://www.tradingview.com/chart/?symbol=REG) | Regency Centers Corporation | REG |
 | 19 | 84 | $21.07 | [Chart](https://www.tradingview.com/chart/?symbol=LGOV) | First Trust Long Duration Opportunities ETF | LGOV |
-| 24 | 84 | $51.04 | [Chart](https://www.tradingview.com/chart/?symbol=MUNI) | PIMCO Intermediate Municipal Bond Active Exchange-Traded Fund | MUNI |
+| 22 | 84 | $56.92 | [Chart](https://www.tradingview.com/chart/?symbol=O) | Realty Income Corporation | O |
 | 19 | 83 | $112.23 | [Chart](https://www.tradingview.com/chart/?symbol=CPT) | Camden Property Trust | CPT |
-| 21 | 81 | $238.04 | [Chart](https://www.tradingview.com/chart/?symbol=WDAY) | Workday, Inc. Class A Common Stock | WDAY |
+| 25 | 83 | $51.04 | [Chart](https://www.tradingview.com/chart/?symbol=MUNI) | PIMCO Intermediate Municipal Bond Active Exchange-Traded Fund | MUNI |
+| 29 | 83 | $16.37 | [Chart](https://www.tradingview.com/chart/?symbol=XP) | XP Inc. Class A Common Stock | XP |
+| 19 | 82 | $26.75 | [Chart](https://www.tradingview.com/chart/?symbol=EWZ) | iShares MSCI Brazil ETF | EWZ |
 | 33 | 81 | $19.67 | [Chart](https://www.tradingview.com/chart/?symbol=AMN) | AMN Healthcare Services | AMN |
-| 30 | 80 | $16.22 | [Chart](https://www.tradingview.com/chart/?symbol=XP) | XP Inc. Class A Common Stock | XP |
+| 26 | 80 | $47.11 | [Chart](https://www.tradingview.com/chart/?symbol=EDU) | New Oriental Education and Technology Group, Inc. American Depositary Shares (each representing ten (10) Common Shares) | EDU |
+| 26 | 80 | $240.30 | [Chart](https://www.tradingview.com/chart/?symbol=WDAY) | Workday, Inc. Class A Common Stock | WDAY |
+| 30 | 80 | $104.72 | [Chart](https://www.tradingview.com/chart/?symbol=PRU) | Prudential Financial, Inc. | PRU |
 | 30 | 80 | $10.95 | [Chart](https://www.tradingview.com/chart/?symbol=NAC) | Nuveen California Quality Municipal Income Fund | NAC |
-| 23 | 79 | $56.86 | [Chart](https://www.tradingview.com/chart/?symbol=O) | Realty Income Corporation | O |
-| 28 | 78 | $103.75 | [Chart](https://www.tradingview.com/chart/?symbol=PRU) | Prudential Financial, Inc. | PRU |
 | 28 | 77 | $68.86 | [Chart](https://www.tradingview.com/chart/?symbol=HHH) | Howard Hughes Holdings Inc. | HHH |
-| 35 | 77 | $52.48 | [Chart](https://www.tradingview.com/chart/?symbol=POWI) | Power Integrations Inc | POWI |
-| 32 | 74 | $298.14 | [Chart](https://www.tradingview.com/chart/?symbol=UTHR) | United Therapeutics Corp | UTHR |
-| 35 | 71 | $194.60 | [Chart](https://www.tradingview.com/chart/?symbol=RGA) | Reinsurance Group of America, Incorporated | RGA |
-| 36 | 71 | $24.74 | [Chart](https://www.tradingview.com/chart/?symbol=REET) | iShares Global REIT ETF | REET |
+| 31 | 77 | $28.53 | [Chart](https://www.tradingview.com/chart/?symbol=CZR) | Caesars Entertainment, Inc. Common Stock | CZR |
+| 28 | 76 | $14.44 | [Chart](https://www.tradingview.com/chart/?symbol=OBDC) | Blue Owl Capital Corporation | OBDC |
+| 31 | 76 | $214.82 | [Chart](https://www.tradingview.com/chart/?symbol=AMT) | American Tower Corporation | AMT |
+| 36 | 76 | $52.48 | [Chart](https://www.tradingview.com/chart/?symbol=POWI) | Power Integrations Inc | POWI |
+| 29 | 73 | $335.70 | [Chart](https://www.tradingview.com/chart/?symbol=SHW) | The Sherwin-Williams Company | SHW |
+| 31 | 73 | $37.60 | [Chart](https://www.tradingview.com/chart/?symbol=MSTX) | Tidal Trust II Defiance Daily Target 2x Long MSTR ETF | MSTX |
+| 33 | 73 | $298.14 | [Chart](https://www.tradingview.com/chart/?symbol=UTHR) | United Therapeutics Corp | UTHR |
 | 37 | 71 | $16.36 | [Chart](https://www.tradingview.com/chart/?symbol=CHCT) | Community Healthcare Trust Incorporated Common Stock, $0.01 par value per share | CHCT |
-| 35 | 70 | $77.66 | [Chart](https://www.tradingview.com/chart/?symbol=MET) | MetLife, Inc. | MET |
 | 35 | 70 | $89.46 | [Chart](https://www.tradingview.com/chart/?symbol=LPX) | Louisiana-Pacific Corp. | LPX |
-| 32 | 69 | $14.61 | [Chart](https://www.tradingview.com/chart/?symbol=OBDC) | Blue Owl Capital Corporation | OBDC |
+| 36 | 70 | $78.67 | [Chart](https://www.tradingview.com/chart/?symbol=MET) | MetLife, Inc. | MET |
+| 36 | 70 | $194.60 | [Chart](https://www.tradingview.com/chart/?symbol=RGA) | Reinsurance Group of America, Incorporated | RGA |
+| 37 | 70 | $47.39 | [Chart](https://www.tradingview.com/chart/?symbol=EXAS) | Exact Sciences Corp | EXAS |
+| 38 | 68 | $12.68 | [Chart](https://www.tradingview.com/chart/?symbol=NU) | Nu Holdings Ltd. | NU |
 | 39 | 68 | $28.18 | [Chart](https://www.tradingview.com/chart/?symbol=ALKT) | Alkami Technology, Inc. Common Stock | ALKT |
 | 36 | 65 | $30.06 | [Chart](https://www.tradingview.com/chart/?symbol=HTH) | HILLTOP HOLDINGS INC. | HTH |
-| 39 | 63 | $12.61 | [Chart](https://www.tradingview.com/chart/?symbol=NU) | Nu Holdings Ltd. | NU |
+| 39 | 65 | $26.06 | [Chart](https://www.tradingview.com/chart/?symbol=TRN) | Trinity Industries, Inc. | TRN |
 
 ## **Methodology**
 
